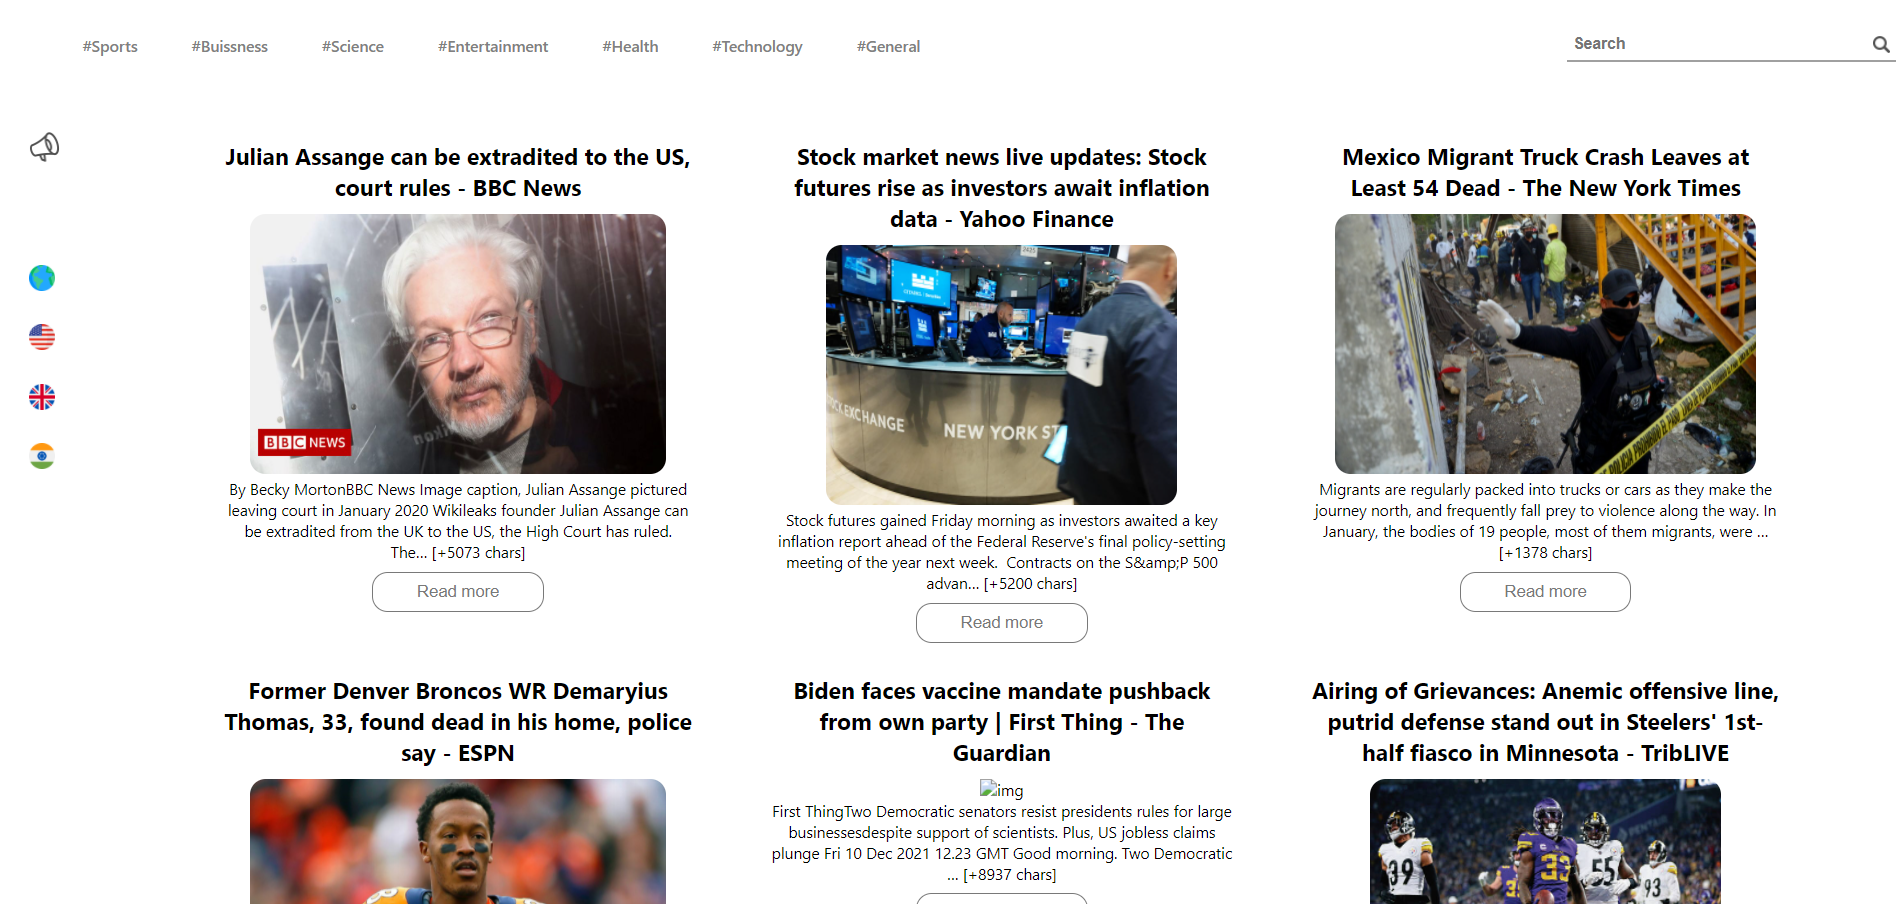
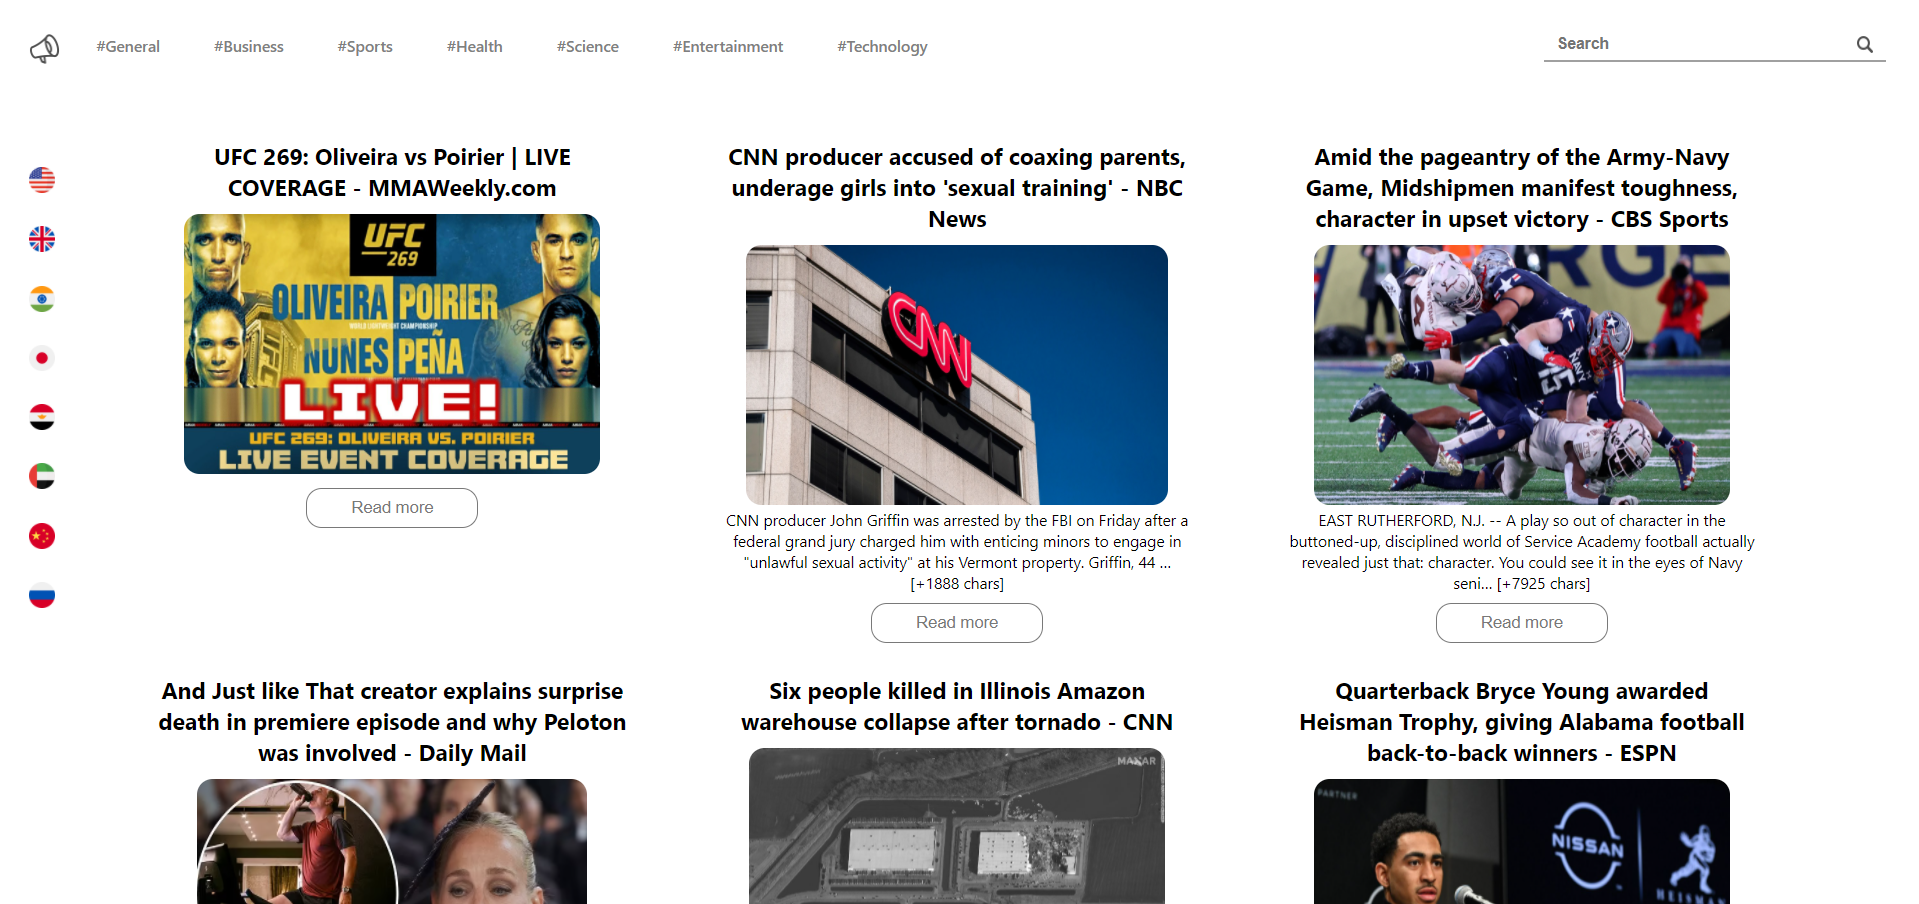
commit

diff --git a/src/App.js b/src/App.js
@@ -1,15 +1,23 @@
 import './App.css';
-import Home from './Home';
 import Navbar from './Navbar.js'
 import Leftbar from './Leftbar';
+import './css/Button.css'
 import axios from 'axios';
 import { useEffect, useState } from 'react';
 import Newsframe from './Newsframe';
 function App() {
+
+  //
+
+  // your API key there in double quotes
+  const apikey="0ab64559a1ff44cbbe217684e5b02839"
+
+  //
   const [news, setNews] = useState([]);
   const [country, setCountry] = useState('us');
   const [cat, setCat] = useState('general')
-  const [api, setApi] = useState(`https://newsapi.org/v2/top-headlines?country=${country}&apiKey=0ab64559a1ff44cbbe217684e5b02839`)
+  const [page, setPage] = useState(1)
+  const [api, setApi] = useState(`https://newsapi.org/v2/top-headlines?country=${country}&apiKey=${apikey}&page=${page}`)
   useEffect(() => {
     async function getData() {
       const response = await axios.get(api)
@@ -19,15 +27,15 @@ function App() {
   }, [api])
   function changecat(valuect) {
     setCat(valuect)
-    setApi(`https://newsapi.org/v2/everything?q=${cat}&apiKey=0ab64559a1ff44cbbe217684e5b02839`)
+    setApi(`https://newsapi.org/v2/everything?q=${cat}&apiKey=${apikey}&page=${page}`)
   }
   function changecountry(value) {
     setCountry(value);
-    setApi(`https://newsapi.org/v2/top-headlines?country=${country}&apiKey=0ab64559a1ff44cbbe217684e5b02839`)
+    setApi(`https://newsapi.org/v2/top-headlines?country=${country}&apiKey=${apikey}&${page}`)
   }
-  function srch(valuesrch){
+  function srch(valuesrch) {
     setCat(valuesrch)
-    setApi(`https://newsapi.org/v2/everything?q=${cat}&apiKey=0ab64559a1ff44cbbe217684e5b02839`)
+    setApi(`https://newsapi.org/v2/everything?q=${cat}&apiKey=${apikey}&page=${page}`)
   }
   return (
     <div className="App">
@@ -45,9 +53,14 @@ function App() {
             }
 
           </div>
+          <div className="buttons">
+            <div className='btns'>
+              <button disabled={page===1} onClick={()=>setPage(page - 1)}>Previous</button>
+              <button onClick={()=>setPage(page + 1)}>Next</button>
+            </div>
+          </div>
         </div>
       </div>
-      <Home />
     </div>
   );
 }

diff --git a/src/Navbar.js b/src/Navbar.js
@@ -16,14 +16,13 @@ export default function Navbar(props) {
         <div>
             <div className="navbar">
                 <div className="tagsnavbar">
-                    {/* <p onClick={()=>demoMethod('all')}>#All</p> */}
-                    <p onClick={() => demoMethod('sports')}>#Sports</p>
+                    <p onClick={() => demoMethod('general')}>#General</p>
                     <p onClick={() => demoMethod('business')}>#Business</p>
+                    <p onClick={() => demoMethod('sports')}>#Sports</p>
+                    <p onClick={() => demoMethod('health')}>#Health</p>
                     <p onClick={() => demoMethod('science')}>#Science</p>
                     <p onClick={() => demoMethod('entertainment')}>#Entertainment</p>
-                    <p onClick={() => demoMethod('health')}>#Health</p>
                     <p onClick={() => demoMethod('technology')}>#Technology</p>
-                    <p onClick={() => demoMethod('general')}>#General</p>
                 </div>
                 <div className="searchbarnav">
                     <input onChange={searchdata} type="text" placeholder="Search" id="" />

diff --git a/src/index.css b/src/index.css
@@ -1,7 +1,13 @@
-*{
+* {
   margin: 0;padding: 0;
+  -webkit-user-select: none;
+  -khtml-user-select: none;
+  -moz-user-select: -moz-none;
+  -o-user-select: none;
+  user-select: none;
 }
   body {
+    height: 100%;
     margin: 0;padding: 0;
   font-family: -apple-system, BlinkMacSystemFont, 'Segoe UI', 'Roboto', 'Oxygen',
     'Ubuntu', 'Cantarell', 'Fira Sans', 'Droid Sans', 'Helvetica Neue',
@@ -13,4 +19,11 @@
 code {
   font-family: source-code-pro, Menlo, Monaco, Consolas, 'Courier New',
     monospace;
+}
+body{
+  -ms-overflow-style: none;  /* Internet Explorer 10+ */
+  scrollbar-width: none;  /* Firefox */
+}
+body::-webkit-scrollbar { 
+  display: none;  /* Safari and Chrome */
 }

diff --git a/src/css/Navbar.css b/src/css/Navbar.css
@@ -1,7 +1,9 @@
 .navbar{
     display: flex;
     flex-direction: row;
-    padding: 35px 6px;
+    padding: 35px 30px;
+    padding-left: 52px;
+    padding-right: 22px;
 }
 .tagsnavbar{
     width: 80%;
@@ -25,8 +27,9 @@
     align-items: center;
     width:fit-content;
     justify-content: stretch;
-    padding: 0 6px;
+    padding: 0 12px;
     padding-bottom: 6px;
+    margin-right: 12px;
 }
 .searchbarnav input{
     border: none;
@@ -62,7 +65,7 @@
         display: none;
     }
 }
-@media screen and (max-width:1002px){
+@media screen and (max-width:500px){
     .tagsnavbar p{
         margin: 0 30px;
     }

diff --git a/src/css/Button.css b/src/css/Button.css
@@ -1,0 +1,22 @@
+.btns{
+    display: flex;
+    flex-direction: row;
+    align-items: center;
+    justify-content: center;
+    display: none;
+  
+}
+.btns button{
+    width:fit-content;
+    padding: 12px 50px;
+    border: none;
+    outline: none;
+    border-radius: 15px;
+    cursor: pointer;
+    margin: 30px 50px;
+    font-weight: 600;
+    font-family: sans-serif;
+    color: rgb(88, 88, 88);
+    font-size: 13px;
+    border: 1px solid gray;
+}

diff --git a/src/App.css b/src/App.css
@@ -39,6 +39,9 @@
 .pageframe{
   display: flex;
   flex-direction: column;
+  /* overflow-y: scroll; */
+  margin: auto;
+  width: 98%;
 }
 .newsframe{
   padding-top: 20px;
@@ -55,4 +58,12 @@
     display: grid;
     grid-template-columns: repeat(2,1fr);
   }
+}
+
+.buttons{
+  margin: auto;
+  display: flex;
+  flex-direction: row;
+  align-items: center;
+  justify-content: space-between;
 }

diff --git a/src/css/Leftbar.css b/src/css/Leftbar.css
@@ -10,6 +10,8 @@
     padding: 0 14px;
     z-index: 999;
     background-color: rgb(255, 255, 255);
+    position: fixed;
+    top:2px;
 }
 .country{
     display: flex;
@@ -23,7 +25,7 @@
     width: 30px;
     height: 30px;
     margin-bottom: 9vh;
-    margin-top: 32px;
+    margin-top: 31px;
 
 }
 @media screen and (max-width:500px){

diff --git a/README.md b/README.md
@@ -15,10 +15,17 @@
 <p align="center">
   <img src="images/1.png" >
   <img src="images/2.png">
+   <img src="images/3.png">
 
 </p>
 
 𝙉𝙊𝙏𝙀: 𝘿𝙤𝙣𝙩 𝙛𝙤𝙧𝙜𝙚𝙩 𝙩𝙤 𝙪𝙨𝙚 𝙮𝙤𝙪𝙧 𝘼𝙋𝙄𝙠𝙚𝙮 𝙗𝙮 𝙜𝙚𝙩𝙩𝙞𝙣𝙜 𝙖𝙩          https://newsapi.org/
+
+
+<p align="center">
+  <img src="images/apikey.png" >
+
+</p>
 
 
 ## 𝙂𝙚𝙩𝙩𝙞𝙣𝙜 𝙎𝙩𝙖𝙧𝙩𝙚𝙙 𝙬𝙞𝙩𝙝 𝘾𝙧𝙚𝙖𝙩𝙚 𝙍𝙚𝙖𝙘𝙩 𝘼𝙥𝙥
